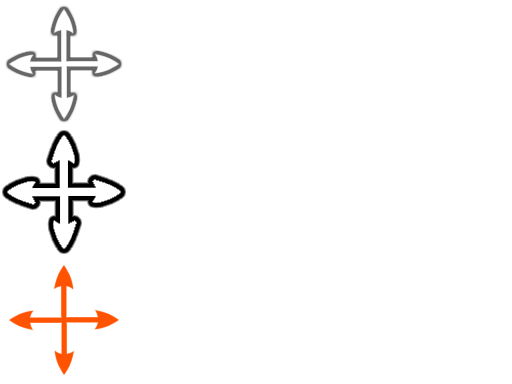
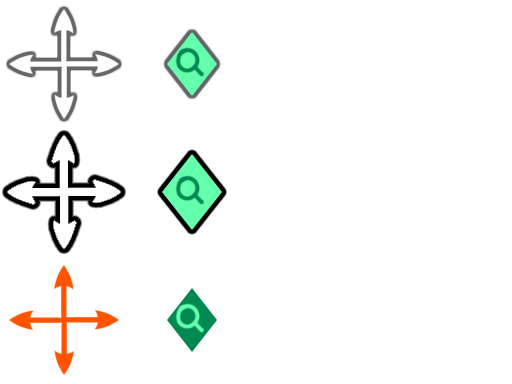
Add zoom nub

Changed region(s): [[0.3125, 0.375, 0.4375, 0.625], [0.3125, 0.0625, 0.4375, 0.25], [0.3125, 0.75, 0.4375, 0.9062]]

diff --git a/new-area/image-creator/macroGenerator.js b/new-area/image-creator/macroGenerator.js
@@ -372,7 +372,7 @@ class MacroGenerator {
         this.createMacroTypeSelects()
 
         //// OTHER CONTROLS
-        this.captionInput = my('input', 'image-caption')
+        this.captionInput = my('*', 'image-caption')
         this.captionInput.oninput = autoRedraw
         this.captionInput.onkeyup = e => { if (e.code==='Enter') this.redrawMacro() }
         if( window.MACROGEN_DEFAULTS?.caption )
@@ -431,51 +431,105 @@ class MacroGenerator {
 
         this.updateCanvasOverlay = () => {
             canvasOverlay.style.left = this.canvas.offsetLeft + 'px'
-            canvasOverlay.style.width = this.canvas.clientWidth + 'px'
-            adjustGrabby()
+            canvasOverlay.style.width = this.canvas.clientWidth + 'px'            
+            updateGrabbies()
         }
         window.addEventListener('resize', this.updateCanvasOverlay)
 
-        const grabby = this.grabby = canvasOverlay.children[0]
-        let grabState = {x: 0, y: 0, grabbed: false}
+        const posGrabby = this.posGrabby = canvasOverlay.children[0]
+        const scaleGrabby = this.scaleGrabby = canvasOverlay.children[1]
+        const GrabType = {
+            none: 0, position: 1, scale: 2
+        }
+        let grabState = {type: 0, xOffset: 0, yOffset: 0, scale: 1}
+        const grabMap = [null, posGrabby, scaleGrabby]
 
-        const adjustGrabby = () => {
-            grabby.style.left = (this.sliders.position.get('xOffset')+.5)*this.canvas.clientWidth + 'px'
-            grabby.style.top = (this.sliders.position.get('yOffset')+.5)*this.canvas.clientHeight + 'px'
+        const SCALEGRABDIST = 40
+        const getScale = e => 
+            Math.hypot(posGrabby.offsetLeft-e.offsetX, posGrabby.offsetTop-e.offsetY) / Math.hypot(SCALEGRABDIST, SCALEGRABDIST)
+
+
+        /** Adjust the grabbies' position based on the Slider values. */
+        const updateGrabbies = () => {
+            const { xOffset, yOffset, scale } = this.sliders.position.getValues()
+            const left = (xOffset+.5)*this.canvas.clientWidth
+            const top =  (yOffset+.5)*this.canvas.clientHeight
+            updatePosGrabby(left, top)
+            updateScaleGrabby(left, top, scale)
+        }
+        const updatePosGrabby = (left, top) => {
+            posGrabby.style.left = left + 'px'
+            posGrabby.style.top = top + 'px'
+        }
+        const updateScaleGrabby = (left, top, scale) => {
+            scaleGrabby.style.left = left + scale*SCALEGRABDIST + 'px'
+            scaleGrabby.style.top = top - scale*SCALEGRABDIST + 'px'
         }
 
-        const startGrab = e => {
-            grabState = { x: grabby.offsetLeft, y: grabby.offsetTop, grabbed: true }
-            grabby.classList.add('grabbed')
+        //// Callbacks
+        const startPosGrab = e => {
+            grabState = { type: GrabType.position }
+            posGrabby.classList.add('grabbed')
+            canvasOverlay.classList.add('grabbed')
         }
-        const completeGrab = e => {
-            if( !grabState.grabbed ) return
-
-            grabState.grabbed = false
-            grabby.classList.remove('grabbed')
-            this.sliders.position.setValues({
-                xOffset: grabby.offsetLeft/this.canvas.clientWidth-.5, yOffset: grabby.offsetTop/this.canvas.clientHeight-.5
-            })
-            this.sliders.position.onchange()
+        const startScaleGrab = e => {
+            grabState = { type: GrabType.scale }
+            scaleGrabby.classList.add('grabbed')
+            canvasOverlay.classList.add('grabbed')
         }
         const moveGrab = e => {
-            if( !grabState.grabbed ) return
+            if( !grabState.type ) return
 
-            grabby.style.left = e.offsetX + 'px'
-            grabby.style.top = e.offsetY + 'px'
+            if( grabState.type === GrabType.position )
+            {
+                updatePosGrabby(e.offsetX, e.offsetY)
+                updateScaleGrabby(e.offsetX, e.offsetY, this.sliders.position.get('scale'))
+            }
+            else if ( grabState.type === GrabType.scale )
+            {
+                updateScaleGrabby(posGrabby.offsetLeft, posGrabby.offsetTop, getScale(e))
+            }
+        }
+        const completeGrab = e => {
+            if( !grabState.type ) return
+
+            if( grabState.type === GrabType.position )
+            {
+                this.sliders.position.setValues({
+                    xOffset: posGrabby.offsetLeft/this.canvas.clientWidth-.5, yOffset: posGrabby.offsetTop/this.canvas.clientHeight-.5
+                })
+            }
+            else if ( grabState.type === GrabType.scale )
+            {
+                this.sliders.position.setValues({ scale: getScale(e) })
+            }
+            this.sliders.position.onchange()
+
+            // Clear grab state
+            grabMap[grabState.type].classList.remove('grabbed')
+            canvasOverlay.classList.remove('grabbed')
+            grabState.type = 0
         }
 
+        // Listener binding helpers
         const ifMobile = f => (e => { if(screen.width < 1000) f(e) })
         const ifNonMobile = f => (e => { if(screen.width >= 1000) f(e) })
 
-        grabby.addEventListener('pointerdown', ifNonMobile(startGrab))
-        grabby.addEventListener('click', ifMobile(startGrab))
+        //// Bind those listeners
+        posGrabby.addEventListener('pointerdown', ifNonMobile(startPosGrab))
+        posGrabby.addEventListener('click', ifMobile(startPosGrab))
+
+        scaleGrabby.addEventListener('pointerdown', ifNonMobile(startScaleGrab))
+        scaleGrabby.addEventListener('click', ifMobile(startScaleGrab))
+
         document.addEventListener('pointerup', ifNonMobile(completeGrab))
         this.canvas.addEventListener('pointermove', moveGrab)
         this.canvas.addEventListener('click', e => { moveGrab(e); completeGrab(e)} )
 
+
+        //// Hook up checkbox to enable/disable
         const showGrabby = this.my('input', 'showGrabby')
-        showGrabby.onchange = e => { grabby.hidden = !showGrabby.checked }
+        showGrabby.onchange = e => { posGrabby.hidden = scaleGrabby.hidden = !showGrabby.checked }
         showGrabby.onchange()
     }
 

diff --git a/new-area/image-creator/index.html b/new-area/image-creator/index.html
@@ -117,7 +117,8 @@
 
 			<div class=canvas-wrapper>
 				<div id=canvas-overlay>
-					<div class=grabby hidden></div>
+					<div class='grabby position-grabby' hidden></div>
+					<div class='grabby scale-grabby' hidden></div>
 				</div>
 				<canvas id=canvas class=big width=1920px height=1080px style="margin: auto">
 			</div>
@@ -173,7 +174,8 @@
 
 				<div>
 					<span class=input-title style=min-width:100px>Caption:</span>
-					<input type=text id=image-caption value="Caption Unaltered" style="min-width:280px">
+					<textarea id=image-caption rows=1 style="min-height: 1em; min-width:280px; max-width:280px; margin-bottom:-8px"
+					>Caption Unaltered</textarea>
 				</div>
 			</div>
 
@@ -184,7 +186,7 @@
 					<h4> Position </h4>
 					<div>
 						<label class=input-title style=margin-bottom:0>
-							Enable manual positioning:
+							Show manual controls:
 							<input name=showGrabby type=checkbox>
 						</label>
 					</div>
@@ -538,6 +540,7 @@
 		<div id=changes-info hidden>
 			<h2 style="margin:0 .5em .5em">Changelog</h2>
 
+			<b>2022/06/20</b> • Updated icons, progressed manual positioning feature <br>
 			<b>2022/06/18</b> • (Finally) added some Demon's Souls macros: two "noun verbeds" and two deaths <br>
 			<b>2022/06/17</b> • Added a prototype "nub" that can be dragged to change the overlay position <br>
 			<b>2022/06/17</b> • Added a few missing DS2/DS3 presets, slightly change mobile layout <br>

diff --git a/new-area/new-area.css b/new-area/new-area.css
@@ -387,8 +387,8 @@ canvas.big {
     pointer-events: none;
 }
     #canvas-overlay > .grabby {
-        position: relative;
-        width: 40px; height: 40px;
+        position: absolute;
+        width: 48px; height: 48px;
         transform: translate(-50%, -50%);
         pointer-events: all;
         cursor: grab;
@@ -396,11 +396,20 @@ canvas.big {
         background-image: url(graphics/grabby.png);
         background-size: 400% 300%;
     }
+    #canvas-overlay > .grabby.position-grabby {
+        background-position-x: 0;
+    }
+    #canvas-overlay > .grabby.scale-grabby {
+        background-position-x: -100%;
+    }
     #canvas-overlay > .grabby:hover {
         background-position-y: -100%;
     }
     #canvas-overlay > .grabby.grabbed {
         background-position-y: -200%;
+        cursor: initial;
+    }
+    #canvas-overlay.grabbed > .grabby {
         pointer-events: none;
     }
 
